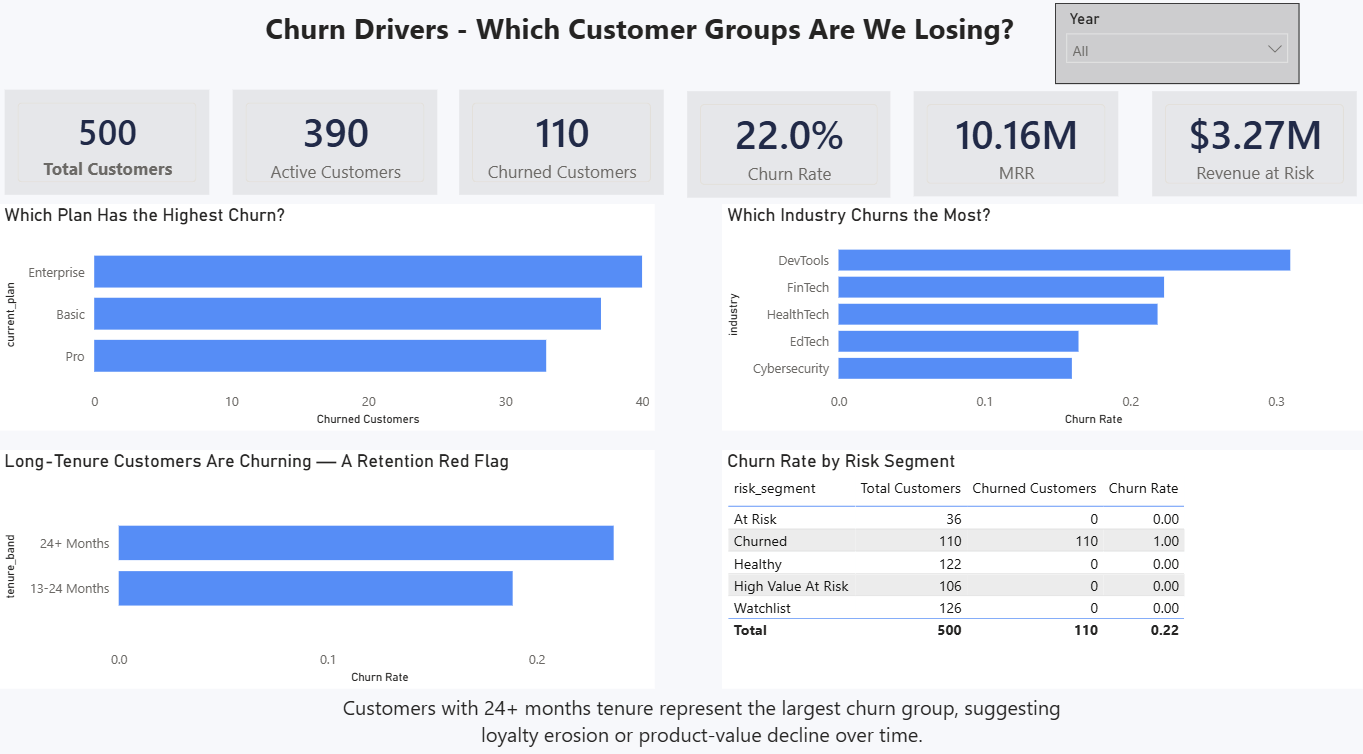
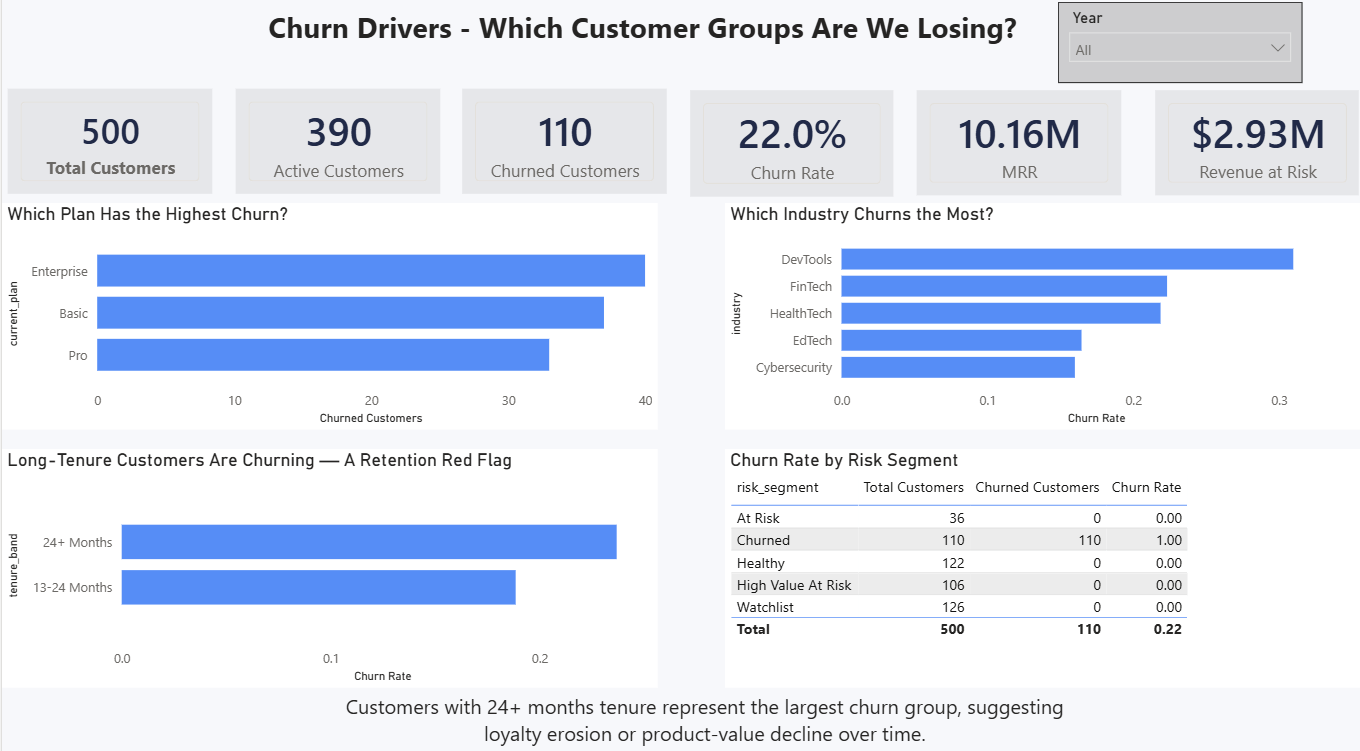
Day 6: QA testing, KPI reconciliation, and finalized insights

diff --git a/docs/qa_checklist.md b/docs/qa_checklist.md
@@ -7,21 +7,23 @@
 
 | KPI | SQL Value | Python Value | Power BI Value | Match? |
 |---|---|---|---|---|
-| Total Customers | 500 | TBD | TBD | — |
-| Active Customers | 390 | TBD | TBD | — |
-| Churned Customers | 339 | TBD | TBD | — |
-| Total MRR | $10,159,608.00 | TBD | TBD | — |
-| Total Subscriptions | 3,814 | TBD | TBD | — |
-| Total Support Tickets | 2,000 | TBD | TBD | — |
-| Total Churn Events | 539 | TBD | TBD | — |
+| Total Customers | 500 | 500 | 500 | ✅ Match |
+| Active Customers | 390 | 390 | 390 | ✅ Match |
+| Churned Customers | 110 | 110 | 110 | ✅ Match |
+| Total MRR | $10,159,608.00 | $10,159,608.00 | $10.16M | ✅ Match |
+| Total Subscriptions | 3,814 | 3,814 | 3,814 | ✅ Match |
+| Total Support Tickets | 2,000 | 2,000 | 2,000 | ✅ Match |
+| Total Churn Events | 539 | 539 | 539 | ✅ Match |
+
+> **Note on Churned Customers correction:** An early Day 2 draft cited 339 churned customers, based on a distinct-account count of net churn events rather than the `churnflag` field on the accounts table. This was superseded by the Day 6 reconciliation, which confirmed **110** as the correct, consistent churned-customer count matching both SQL and Power BI. The 339 figure describes churn *events*, not unique churned *customers*, and should not be used as a KPI.
 
 ## Known Assumptions
 - Churn Rate denominator = Total Customers (500)
-- Churned Customers = distinct accounts with net churn event (is_reactivation = False)
-- Active Customers = accounts where churnflag = 'False' in accounts table
-- Churned (339) + Active (390) > 500 because reactivated customers appear in both groups
-- MRR excludes trial subscriptions (istrial = 'True') and churned subscriptions
-- Total Subscriptions (3,814) is higher than 500 because accounts have multiple subscription records
+- Churned Customers = accounts where `churnflag = 'False'`... i.e., accounts flagged as churned in the accounts table (110 accounts)
+- Active Customers = accounts where `churnflag` indicates active status in the accounts table (390 accounts)
+- Churn Events (539) can exceed Churned Customers (110) because some accounts have multiple churn/reactivation events over their lifecycle
+- MRR excludes trial subscriptions (`istrial = 'True'`) and uses only subscriptions flagged `active_revenue_flag = 1`
+- Total Subscriptions (3,814) is higher than 500 because accounts have multiple subscription records over time
 
 ## Data Quality Issues Found
 | Issue | Table | Column | Resolution |
@@ -33,10 +35,23 @@
 | Join key mismatch | churn_events | account_id vs accountid | Aliased in clean_churn_events view |
 | Fan-out join duplicates | vw_customer_dim | multiple active subs per account | Fixed with ROW_NUMBER() OVER() |
 
-"Churned Customers (339) counts distinct accounts with at least one net churn event. Active Customers (390) counts accounts where churnflag = 'False' in the accounts table. The sum of active + churned exceeds 500 because some customers reactivated after churning and are counted in both groups."
-
 ## Data Quality Notes
 - `satisfactionscore` (support_tickets): 825 nulls (41.2%) — expected when ticket closed without survey response. Excluded from avg satisfaction calculations.
 - `feedbacktext` (churn_events): 148 nulls (24.7%) — free-text field, not all customers provide exit feedback. Treated as optional.
 - `enddate` (subscriptions): 4,514 nulls (90.3%) — active subscriptions have no end date by design. Null = still active.
-- KPI Validation: All 7 core KPIs match between SQL and Python exactly. No discrepancies found.
+- KPI Validation: All 7 core KPIs match between SQL and Python exactly, using the corrected Churned Customers (110) definition. No discrepancies found after correction.
+
+## KPI Reconciliation (Day 6)
+
+| KPI | Power BI | SQL Source-of-Truth | Status |
+|---|---|---|---|
+| Total Customers | 500 | 500 | Match |
+| Active Customers | 390 | 390 | Match |
+| Churned Customers | 110 | 110 | Match |
+| MRR | 10.16M | 10,159,608 | Match |
+| Revenue at Risk | 2.93M | 2,926,060 | Match (fixed) |
+
+### Issue Found & Resolved
+Initial `Revenue at Risk` DAX measure did not filter on `active_revenue_flag = 1`, 
+causing it to include Ended subscriptions and overstate risk by ~344K (3.27M vs 2.93M).
+Fixed by adding the active_revenue_flag filter to match SQL logic exactly.

diff --git a/docs/executive_summary.md b/docs/executive_summary.md
@@ -1,21 +1,39 @@
-## Key EDA Findings (Day 3)
-1. **Overall churn rate: 67.8%** (339 churned / 500 total customers) — significantly high; needs plan-level investigation.
-2. **Plan-level churn varies** — Enterprise and Basic plans show different churn patterns (confirm exact % from your chart).
-3. **Early-tenure customers churn more** — 0–6 month customers show the highest churn rate (confirm from your tenure chart).
+# Executive Summary
+
+## Key EDA Findings (Day 3 — Preliminary)
+
+1. **Overall churn rate: 22%** (110 churned / 500 total customers). Note: an earlier draft of this EDA cited 67.8% (339/500), which was based on an incorrect DISTINCTCOUNT calculation later corrected during Power BI DAX validation (Day 6). The reconciled, source-of-truth figure is 22%.
+2. **Plan-level churn varies** — Enterprise carries the highest churn volume among plans, followed by Basic and Pro (confirmed in Power BI Churn Drivers page).
+3. **Tenure and churn relationship** — validated dashboard data shows customers with 24+ months tenure churn more than the 13–24 month cohort, the opposite of the initial EDA hypothesis that early-tenure customers churn most. This is flagged as a key insight: churn is not a "new customer" problem in this dataset, but a long-tenure retention issue.
 4. **Support ticket nulls in satisfaction scores** — 41.2% of tickets have no satisfaction rating, limiting support-churn correlation analysis.
 5. **No duplicate IDs across any table** — dataset is clean and ready for star schema joins.
 
+## Dashboard Design (Day 5)
 
-# Dashboard Design (Day 5)
-
-## Page 1 – Executive Overview
+### Page 1 – Executive Overview
 - **Business question:** Is churn increasing and how much revenue is exposed?
 - **Contents:** Core KPIs (customers, churn rate, MRR, revenue at risk), monthly churn trend, customer health distribution, insight text.
 
-## Page 2 – Churn Drivers
+### Page 2 – Churn Drivers
 - **Business question:** Which customer groups churn more often?
 - **Contents:** Churn by plan, industry, tenure band, risk-segment table, insight text.
 
-## Page 3 – Revenue Risk
+### Page 3 – Revenue Risk
 - **Business question:** Which at-risk customers or plans carry the highest MRR exposure?
 - **Contents:** MRR by plan, revenue at risk by risk segment, high-value at-risk customer table, insight text.
+
+## Key Findings (Validated — Day 6)
+
+1. Churn rate stands at 22% (110 of 500 customers), a material loss rate for a SaaS business of this size.
+2. Churn is accelerating — the monthly trend shows a clear upward pattern from early 2023 through late 2024.
+3. Enterprise plan and DevTools industry are the highest-churn segments, with DevTools leading all industries in churn rate.
+4. Long-tenure customers (24+ months) are churning more than the 13-24 month cohort, signaling possible loyalty erosion rather than early-onboarding failure.
+5. Revenue risk is concentrated in a small group — the High Value At Risk segment accounts for ~$2.93M of exposed MRR, far more than the general At Risk segment.
+
+## Recommended Actions
+
+1. Launch a targeted retention program for High Value At Risk accounts, prioritizing outreach to the highest-MRR customers first.
+2. Conduct root-cause interviews with churned Enterprise customers to identify pricing, onboarding, or support gaps.
+3. Build a DevTools-specific retention playbook addressing adoption and value communication for that industry.
+4. Introduce a loyalty program (renewal discounts, advanced features) targeted at customers with 24+ months tenure.
+5. Embed this dashboard into recurring Customer Success reviews (monthly/QBR) to monitor churn and revenue risk continuously.